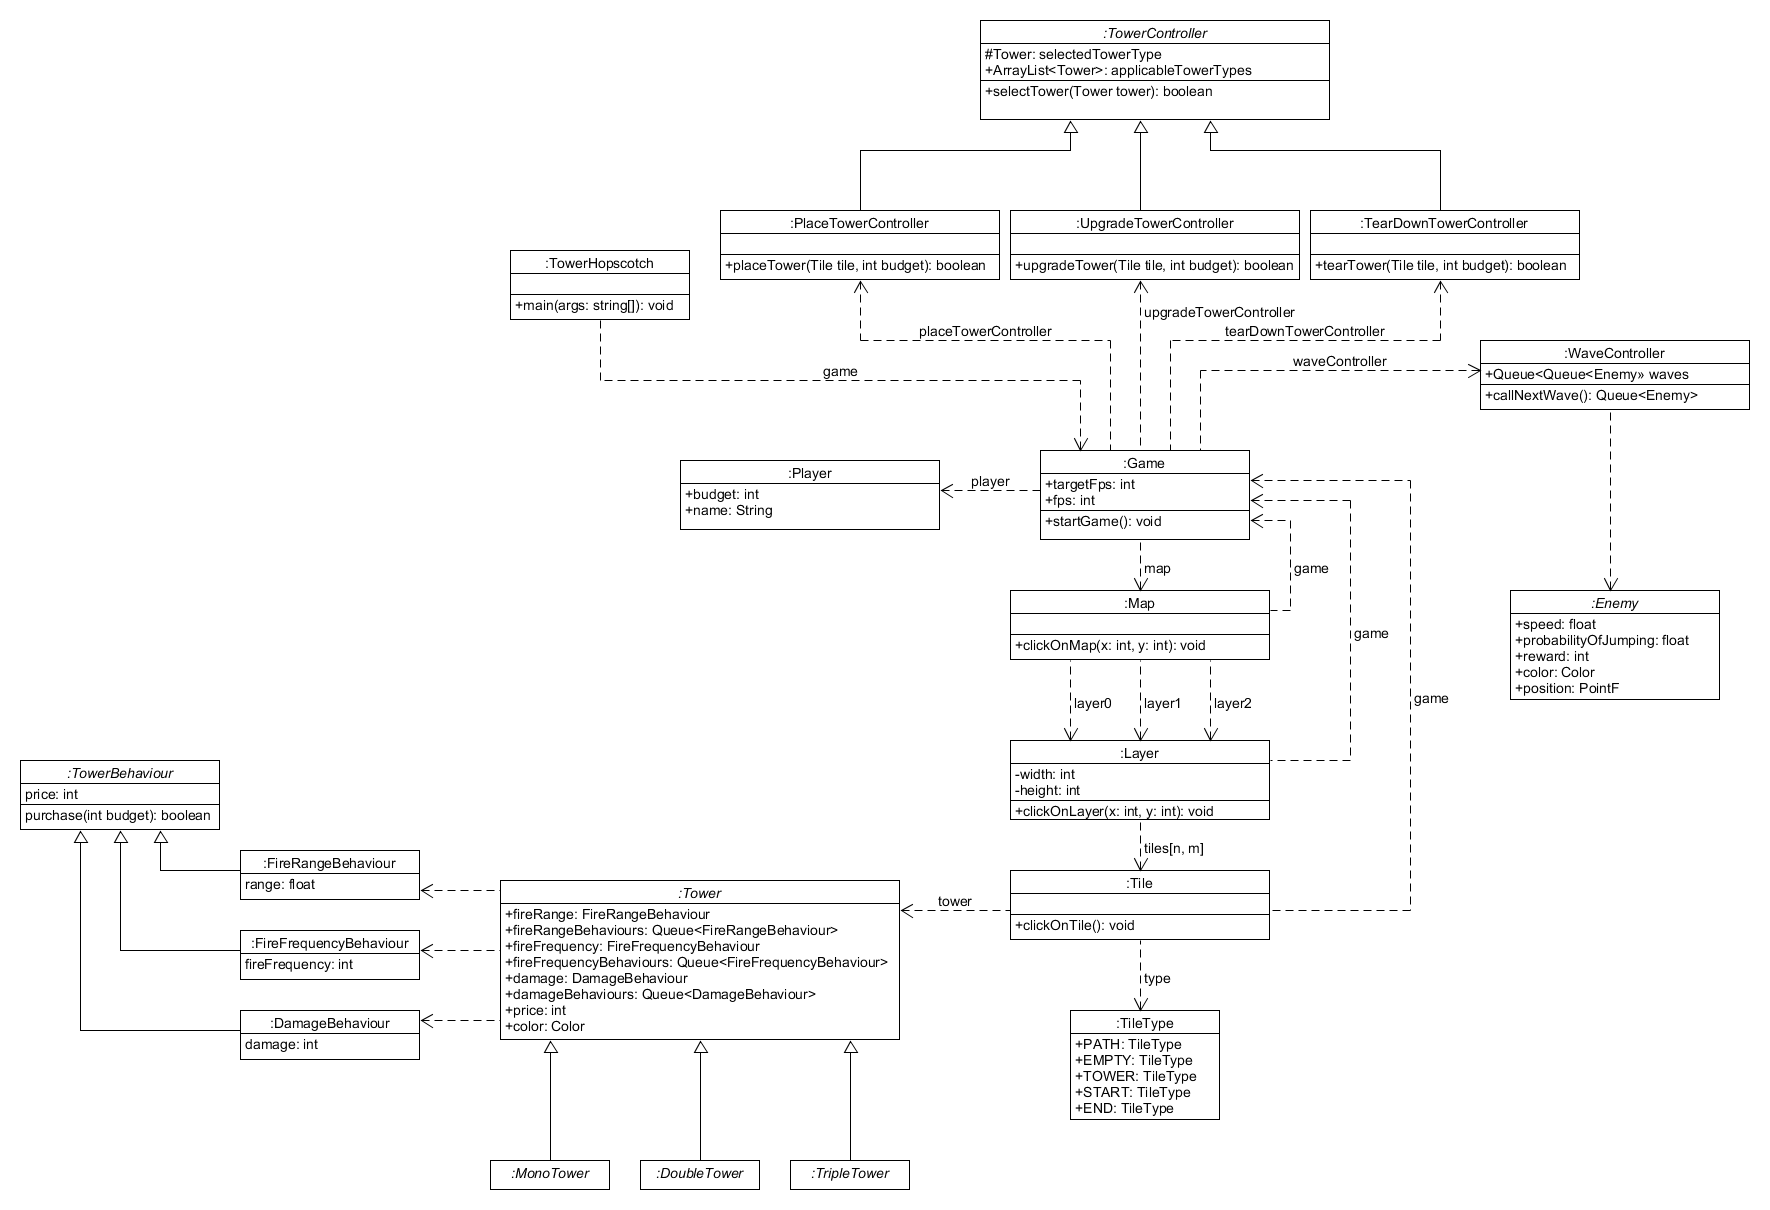
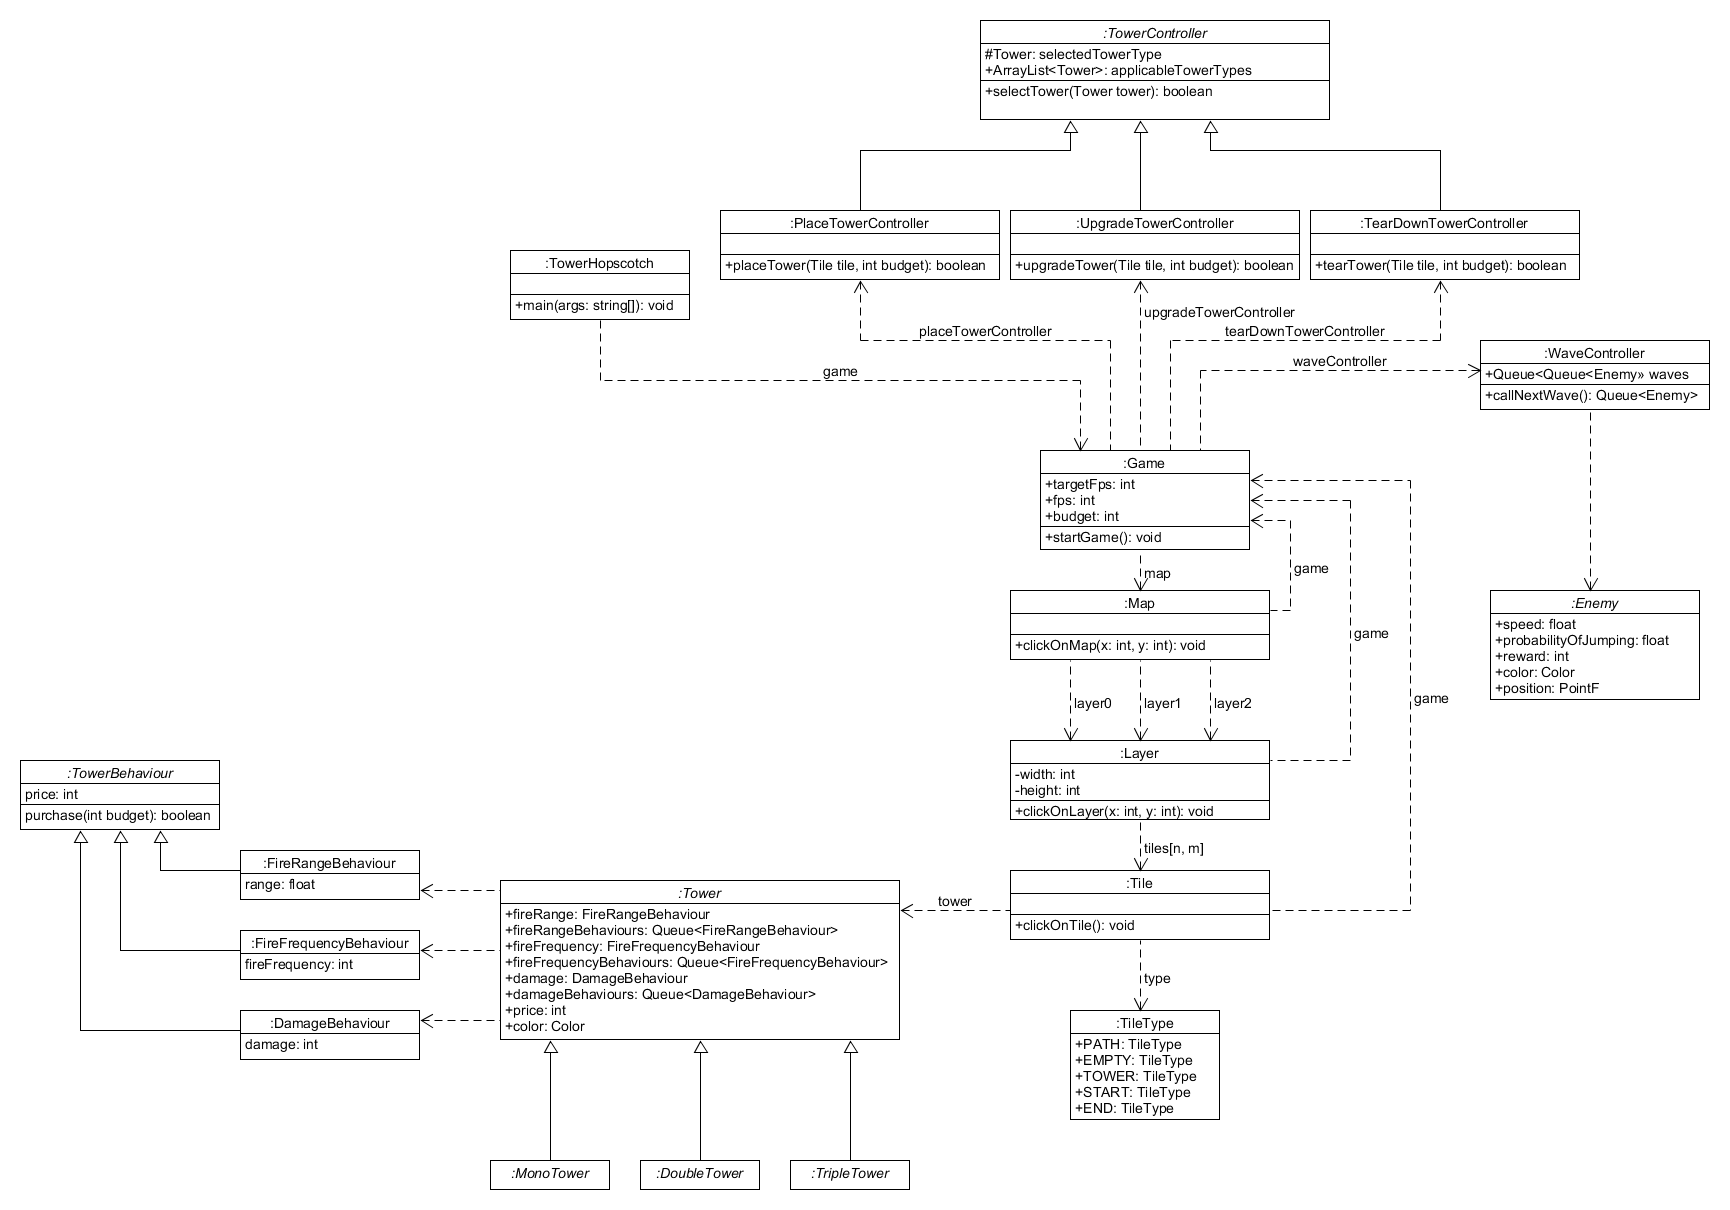
Changed Classdiagram and started implementing Tower specific classes

diff --git a/towerhopscotch/src/main/java/ch/zhaw/psit/towerhopscotch/tower/TowerBehaviour.java b/towerhopscotch/src/main/java/ch/zhaw/psit/towerhopscotch/tower/TowerBehaviour.java
@@ -1,0 +1,30 @@
+package ch.zhaw.psit.towerhopscotch.tower;
+
+import com.sun.jmx.remote.internal.ArrayQueue;
+
+import java.util.List;
+
+/**
+ * Created by Raphael Emberger on 13.11.2017.
+ */
+public abstract class TowerBehaviour {
+    private int price;
+    private List<FloatBehaviour> fireRangeBehaviours = new ArrayQueue<FloatBehaviour>(10);
+    private float fireRange = Float.MIN_VALUE;
+    private List<IntBehaviour> fireFrequencyBehaviours = new ArrayQueue<IntBehaviour>(10);
+    private int fireFrequency = Integer.MIN_VALUE;
+    private List<IntBehaviour> damageBehaviours = new ArrayQueue<IntBehaviour>(10);
+    private int damage = Integer.MIN_VALUE;
+
+    protected TowerBehaviour(int price) {
+        this.price = price;
+    }
+
+    public int getPrice() {
+        return price;
+    }
+
+    public int pruchase(int budget) {
+        return budget > price ? budget - price : budget;
+    }
+}

diff --git a/towerhopscotch/src/main/java/ch/zhaw/psit/towerhopscotch/tower/FloatBehaviour.java b/towerhopscotch/src/main/java/ch/zhaw/psit/towerhopscotch/tower/FloatBehaviour.java
@@ -1,0 +1,17 @@
+package ch.zhaw.psit.towerhopscotch.tower;
+
+/**
+ * Created by Raphael Emberger on 13.11.2017.
+ */
+public final class FloatBehaviour extends TowerBehaviour {
+    private float value;
+
+    public FloatBehaviour(int price, float value) {
+        super(price);
+        this.value = value;
+    }
+
+    public float getValue() {
+        return value;
+    }
+}

diff --git a/towerhopscotch/src/main/java/ch/zhaw/psit/towerhopscotch/tower/IntBehaviour.java b/towerhopscotch/src/main/java/ch/zhaw/psit/towerhopscotch/tower/IntBehaviour.java
@@ -1,0 +1,17 @@
+package ch.zhaw.psit.towerhopscotch.tower;
+
+/**
+ * Created by Raphael Emberger on 13.11.2017.
+ */
+public final class IntBehaviour extends TowerBehaviour {
+    private int value;
+
+    public IntBehaviour(int price, int value) {
+        super(price);
+        this.value = value;
+    }
+
+    public int getValue() {
+        return value;
+    }
+}

diff --git a/towerhopscotch/src/main/java/ch/zhaw/psit/towerhopscotch/tower/Tower.java b/towerhopscotch/src/main/java/ch/zhaw/psit/towerhopscotch/tower/Tower.java
@@ -1,0 +1,16 @@
+package ch.zhaw.psit.towerhopscotch.tower;
+
+import java.awt.*;
+
+/**
+ * Created by Raphael Emberger on 13.11.2017.
+ */
+public abstract class Tower {
+    private int price;
+    private Color color;
+
+    protected Tower(int price, Color color) {
+        this.price = price;
+        this.color = color;
+    }
+}

diff --git a/towerhopscotch/src/main/java/ch/zhaw/psit/towerhopscotch/tower/MonoTower.java b/towerhopscotch/src/main/java/ch/zhaw/psit/towerhopscotch/tower/MonoTower.java
@@ -1,0 +1,12 @@
+package ch.zhaw.psit.towerhopscotch.tower;
+
+import java.awt.*;
+
+/**
+ * Created by Raphael Emberger on 13.11.2017.
+ */
+public class MonoTower extends Tower {
+    protected MonoTower(int price, Color color) {
+        super(price, color);
+    }
+}
